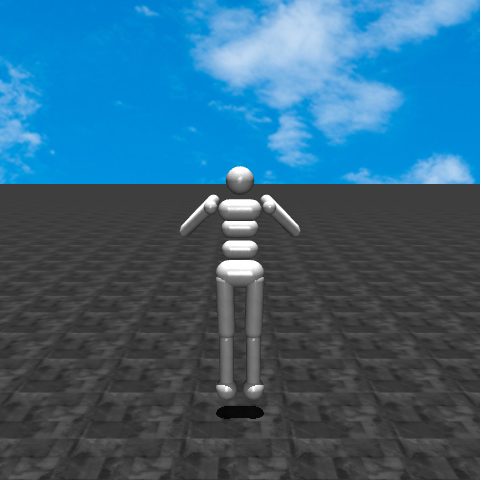
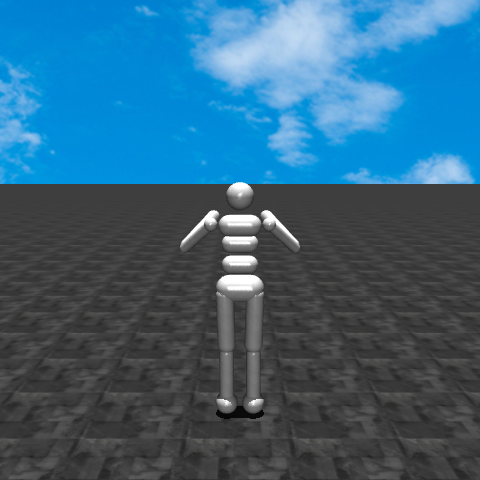
test new remain standing reward fn

Changed region(s): [[0.375, 0.3438, 0.625, 0.625], [0.4375, 0.7812, 0.5625, 0.875]]

diff --git a/envs/humanoid/humanoid_spawned_up.py b/envs/humanoid/humanoid_spawned_up.py
@@ -1,6 +1,6 @@
 import pathlib
 from typing import Any, Dict, Optional, Tuple
-
+from loguru import logger
 import numpy as np
 from gymnasium import utils
 from gymnasium.envs.mujoco import MujocoEnv
@@ -100,9 +100,13 @@ class HumanoidEnvCustom(GymHumanoidEnv):
         assert reward_type in REWARD_FN_MAPPING.keys()
         self.reward_fn = REWARD_FN_MAPPING[reward_type]
 
-        if "goal_only" or "seq" in reward_type:
-            self._ref_joint_states = np.array([])
+        self._ref_joint_states = np.array([])
+
+        if "_goal_only_" in reward_type or "_seq_" in reward_type:
             self._load_reference_joint_states(self.DEMOS_DICT[reward_type])
+
+        # Spawned the humanoid not so high
+        self.init_qpos[2] = 1.3
 
     def step(self, action) -> Tuple[NDArray, float, bool, bool, Dict]:
         xy_position_before = mass_center(self.model, self.data)
@@ -147,6 +151,8 @@ class HumanoidEnvCustom(GymHumanoidEnv):
         for fp in joint_state_fp_list:
             ref_joint_states_list.append(np.load(fp))
         self._ref_joint_states = np.stack(ref_joint_states_list)
+
+        logger.debug(f"Updated self._ref_joint_states: {self._ref_joint_states.shape}\n{self._ref_joint_states}")
 
 def reward_original(data, **kwargs):
     model = kwargs.get("model", None)
@@ -195,6 +201,28 @@ def reward_simple_remain_standing(data, **kwargs):
     terms_to_plot = dict(
             uph_c= - upward_cost,
             ctrl_c= - ctrl_cost,
+            tor=str([f"{data.qpos.flat[:3][i]:.2f}" for i in range(3)]),
+            com=str([f"{data.xipos[1][i]:.2f}" for i in range(3)]),
+            r= f"{rewards:.2f}",
+            og_r= f"{original_mujoco_reward:.2f}",
+    )
+    
+    return rewards, terms_to_plot
+
+def reward_simple_remain_standing_exp_dist(data, **kwargs):
+    original_mujoco_reward, _ = reward_original(data, **kwargs)
+
+    ctrl_cost = kwargs.get("ctrl_cost", None)
+    ctrl_cost_w = 1
+
+    upward_reward = np.exp(-(data.qpos.flat[2] - 1.3)**2)
+    upward_reward_w = 1
+
+    rewards = upward_reward_w * upward_reward - ctrl_cost_w * ctrl_cost
+
+    terms_to_plot = dict(
+            uph_r= upward_reward,
+            ctrl_c= ctrl_cost,
             tor=str([f"{data.qpos.flat[:3][i]:.2f}" for i in range(3)]),
             com=str([f"{data.xipos[1][i]:.2f}" for i in range(3)]),
             r= f"{rewards:.2f}",
@@ -439,7 +467,7 @@ def reward_splitting(data, **kwargs):
 
 
 def reward_both_arms_out_goal_only_euclidean(data, **kwargs):
-    assert ref_joint_states in kwargs, "ref_joint_states must be passed in as part of the kwargs"
+    assert "ref_joint_states" in kwargs, "ref_joint_states must be passed in as part of the kwargs"
     ref_joint_states = kwargs.get('ref_joint_states', None)
     num_steps = kwargs.get('num_steps', 0)
 
@@ -449,11 +477,11 @@ def reward_both_arms_out_goal_only_euclidean(data, **kwargs):
     # https://github.com/Farama-Foundation/Gymnasium/blob/b6046caeb30c9938789aeeec183147c7ffd1983b/gymnasium/envs/mujoco/humanoid_v4.py#L119
     curr_qpos = data.qpos.flat.copy()[2:]
     
-    reward = np.exp(-np.linalg.norm(curr_qpos, ref_joint_states[0]))
+    reward = np.exp(-np.linalg.norm(curr_qpos - ref_joint_states[0]))
     
     terms_to_plot = dict(
         steps=num_steps,
-        l2_norm=f"n{p.linalg.norm(curr_qpos, ref_joint_states[0]):.2f}",
+        l2_norm=f"{np.linalg.norm(curr_qpos - ref_joint_states[0]):.2f}",
         r = f"{reward:.2f}"
     )
 
@@ -463,6 +491,7 @@ def reward_both_arms_out_goal_only_euclidean(data, **kwargs):
 REWARD_FN_MAPPING = dict(
         original = reward_original,
         simple_remain_standing = reward_simple_remain_standing,
+        simple_remain_standing_exp_dist = reward_simple_remain_standing_exp_dist,
         remain_standing = reward_remain_standing,
         best_standing_up = best_standing_from_lying_down,
         kneeling = reward_kneeling,

diff --git a/humanoid_ctrl_script.py b/humanoid_ctrl_script.py
@@ -9,6 +9,7 @@ import argparse
 
 import envs
 from create_demo.pose_config import pose_config_dict
+from inference import plot_info_on_frame
 
 # Set up
 os.environ['XLA_PYTHON_CLIENT_PREALLOCATE'] = 'false'
@@ -33,7 +34,8 @@ if args.debug:
 
 # Load the humanoid environment
 make_env_kwargs = dict(
-    episode_length = 120
+    episode_length = 120,
+    reward_type = "simple_remain_standing_exp_dist"
 )
 
 env = gymnasium.make(
@@ -84,15 +86,47 @@ if args.debug:
 
     # Check for pose's stability
     # Action space size from https://www.gymlibrary.dev/environments/mujoco/humanoid/
-    for i in range(20):
-        env.step(np.zeros((17,)))
-        video_writer.append_data(np.uint8(env.render()))
+    # for i in range(20):
+    #     # Test how stable the pose is (0 force/action)
+    #     env.step(np.zeros((17,)))
+    #     video_writer.append_data(np.uint8(env.render()))
+
+    for i in range(50):
+        # Test the environment with random action (force-controlled)
+        o, _, _, _, info = env.step(np.random.uniform(-0.4, 0.4, (17,)))
+        frame = env.render()
+        image = Image.fromarray(frame)
+        plot_info_on_frame(image, info)
+        video_writer.append_data(np.uint8(image))
 
         obs = env.unwrapped.get_obs()
         print(f"{i}:")
         for j in range(len(obs[:22])):
             print(f"  qpos: {j+2}: {obs[:22][j]:.2f}")
-        
+
+    plist = ["both-arms-out", "right-arm-out", "left-arm-out"]
+    for i in range(3):
+        joint_config = pose_config_dict[plist[i]]
+
+        new_qpos = copy.deepcopy(init_qpos)
+        for idx in joint_config.keys():
+            new_qpos[int(idx)] = joint_config[int(idx)] # z-coordinate of torso
+
+        # Set the humanoid joint state to the specified ones, velocity stays at 0
+        env.unwrapped.set_state(qpos=new_qpos, qvel=np.zeros((23,)))
+
+        ref = np.load("create_demo/demos/both-arms-out_joint-state.npy")
+        obs = env.unwrapped.get_obs()
+        print(f"{i}: {np.exp(-np.linalg.norm(obs[:22] - ref[0]))}")
+
+        for j in range(5):
+            # Test the environment with random action (force-controlled)
+            o, _, _, _, info = env.step(np.zeros((17,)))
+            frame = env.render()
+            image = Image.fromarray(frame)
+            plot_info_on_frame(image, info)
+            video_writer.append_data(np.uint8(image))
+                        
     video_writer.close()
 
 # Close the environment

diff --git a/callbacks.py b/callbacks.py
@@ -80,7 +80,7 @@ class VideoRecorderCallback(BaseCallback):
                 pil_image = Image.fromarray(image)
                 info = _locals.get('info', {})
 
-                #plot_info_on_frame(pil_image, info)
+                plot_info_on_frame(pil_image, info)
 
                 # PyTorch uses CxHxW vs HxWxC gym (and tensorflow) image convention
                 screens.append(np.uint8(pil_image).transpose(2, 0, 1))
@@ -98,6 +98,7 @@ class VideoRecorderCallback(BaseCallback):
                 Video(th.ByteTensor(array([screens])), fps=40),
                 exclude=("stdout", "log", "json", "csv"),
             )
+
         return True
 
 

diff --git a/create_demo/pose_config.py b/create_demo/pose_config.py
@@ -31,5 +31,9 @@ pose_config_dict = {
         21: np.pi/4, # Left upper arm perpendicular to the side of the torso
         22: np.pi*3/16, # Left upper arm align with the side of torso
         23: -np.pi*5/8, # Make the angle between left upper arm and left lower arm close to pi
+    },
+    "testing":
+    {
+        2: 1.3, # Land the entire torso on the floor
     }
 }
